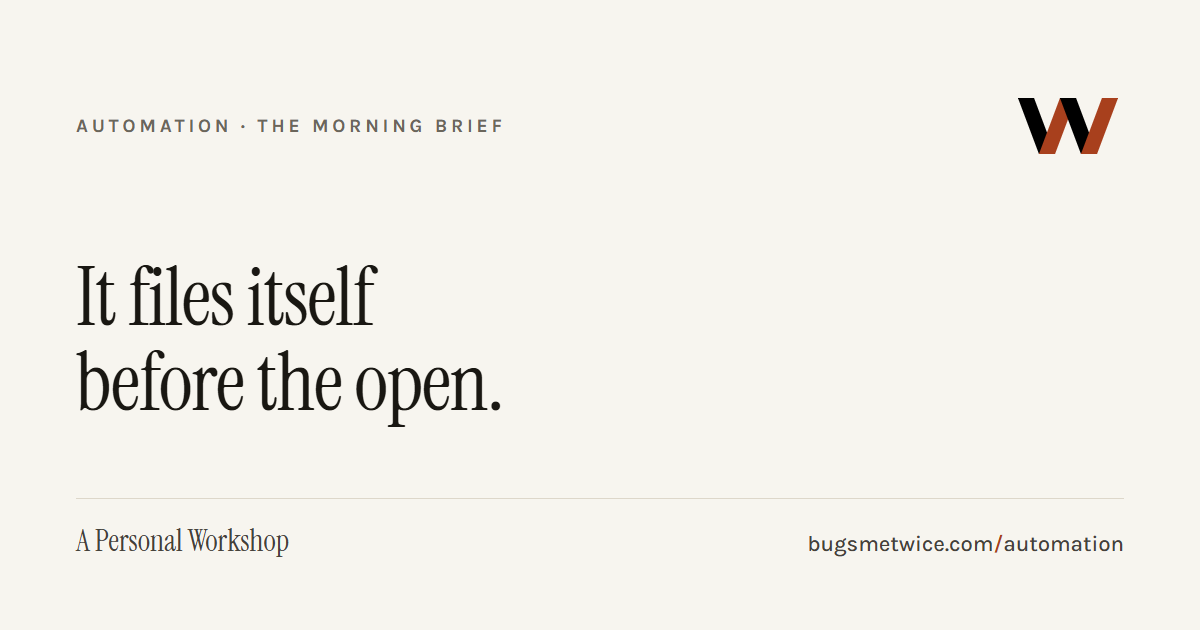
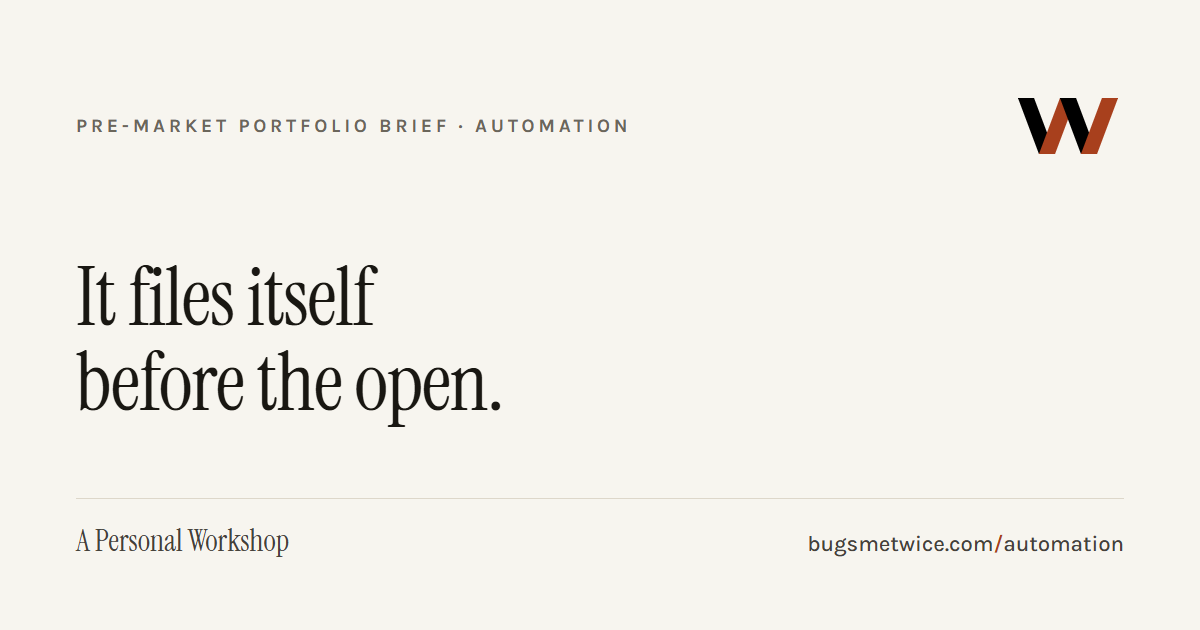
Rename Automation to "Pre-market portfolio brief"; add structured data
- The third project is named for what it is on the card, its window, its
  page title, the preview images and the cross-links. URL unchanged.
- JSON-LD on every page: WebSite + ItemList on the home page,
  SoftwareApplication for Thrennel and TrackSense, WebPage for the brief.
- IndexNow key file, for account-free URL submission to Bing and others.

Changed region(s): [[0.0617, 0.181, 0.5242, 0.2111]]

diff --git a/public/index.html b/public/index.html
@@ -28,6 +28,46 @@
 <link rel="preload" href="/fonts/Karla-normal.woff2" as="font" type="font/woff2" crossorigin>
 
 <link rel="stylesheet" href="/style.css">
+<script type="application/ld+json">
+{
+  "@context": "https://schema.org",
+  "@graph": [
+    {
+      "@type": "WebSite",
+      "@id": "https://bugsmetwice.com/#website",
+      "url": "https://bugsmetwice.com/",
+      "name": "A Personal Workshop",
+      "description": "A workshop, not a portfolio: everything I build, at whatever stage it's honestly at. Thrennel, TrackSense, and the automation that writes my morning brief.",
+      "inLanguage": "en"
+    },
+    {
+      "@type": "ItemList",
+      "name": "The work",
+      "itemListOrder": "https://schema.org/ItemListOrderAscending",
+      "itemListElement": [
+        {
+          "@type": "ListItem",
+          "position": 1,
+          "name": "Thrennel",
+          "url": "https://bugsmetwice.com/thrennel/"
+        },
+        {
+          "@type": "ListItem",
+          "position": 2,
+          "name": "TrackSense",
+          "url": "https://bugsmetwice.com/tracksense/"
+        },
+        {
+          "@type": "ListItem",
+          "position": 3,
+          "name": "Pre-market portfolio brief",
+          "url": "https://bugsmetwice.com/automation/"
+        }
+      ]
+    }
+  ]
+}
+</script>
 </head>
 <body>
 
@@ -91,19 +131,19 @@
           <a class="card__cta" href="/tracksense/">See TrackSense →</a>
         </article>
         <article class="card">
-          <h3>Automation</h3>
+          <h3>Pre-market portfolio brief</h3>
           <p class="card__blurb">A pre-market portfolio brief that writes and files itself every morning, plus the skill library that keeps the rest honest.</p>
-          <a class="card__cta" href="/automation/">See the automation →</a>
+          <a class="card__cta" href="/automation/">See the brief →</a>
         </article>
       </div>
       <p class="band__note noscript__note">The live demos on this page — the knowledge graph, the lap replay and the run log — need JavaScript.</p>
     </noscript>
   </section>
 
-  <dialog class="appwin" id="automation" data-src="/automation/" aria-label="Automation">
+  <dialog class="appwin" id="automation" data-src="/automation/" aria-label="Pre-market portfolio brief">
     <div class="appwin__bar">
-      <span class="appwin__title">Automation</span>
-      <button class="appwin__close" type="button" aria-label="Close Automation">×</button>
+      <span class="appwin__title">Pre-market portfolio brief</span>
+      <button class="appwin__close" type="button" aria-label="Close Pre-market portfolio brief">×</button>
     </div>
     <div class="appwin__body"></div>
   </dialog>

diff --git a/public/automation/index.html b/public/automation/index.html
@@ -3,7 +3,7 @@
 <head>
 <meta charset="utf-8">
 <meta name="viewport" content="width=device-width, initial-scale=1">
-<title>Automation — a morning brief that files itself | A Personal Workshop</title>
+<title>Pre-market portfolio brief — it files itself before the open | A Personal Workshop</title>
 <meta name="description" content="Every weekday before the open, a scheduled agent reads a position list, finds the live numbers, writes six fixed sections and files dated markdown. A second skill audits the library that produces it.">
 <meta name="theme-color" content="#f7f5ef" media="(prefers-color-scheme: light)">
 <meta name="theme-color" content="#16140f" media="(prefers-color-scheme: dark)">
@@ -11,13 +11,13 @@
 <link rel="canonical" href="https://bugsmetwice.com/automation/">
 <meta property="og:type" content="website">
 <meta property="og:site_name" content="A Personal Workshop">
-<meta property="og:title" content="Automation — a morning brief that files itself">
+<meta property="og:title" content="Pre-market portfolio brief — it files itself before the open">
 <meta property="og:description" content="Every weekday before the open, a scheduled agent reads a position list, finds the live numbers, writes six fixed sections and files dated markdown. A second skill audits the library that produces it.">
 <meta property="og:url" content="https://bugsmetwice.com/automation/">
 <meta property="og:image" content="https://bugsmetwice.com/og-automation.png">
 <meta property="og:image:width" content="1200">
 <meta property="og:image:height" content="630">
-<meta property="og:image:alt" content="Automation — It files itself before the open.">
+<meta property="og:image:alt" content="Pre-market portfolio brief — It files itself before the open.">
 <meta name="twitter:card" content="summary_large_image">
 
 <link rel="icon" href="/mark-folded.svg" type="image/svg+xml">
@@ -26,6 +26,19 @@
 <link rel="preload" href="/fonts/InstrumentSerif-normal.woff2" as="font" type="font/woff2" crossorigin>
 <link rel="preload" href="/fonts/Karla-normal.woff2" as="font" type="font/woff2" crossorigin>
 <link rel="stylesheet" href="/style.css">
+<script type="application/ld+json">
+{
+  "@context": "https://schema.org",
+  "@type": "WebPage",
+  "name": "Pre-market portfolio brief",
+  "url": "https://bugsmetwice.com/automation/",
+  "description": "Every weekday before the open, a scheduled agent reads a position list, finds the live numbers, writes six fixed sections and files dated markdown. A second skill audits the library that produces it.",
+  "inLanguage": "en",
+  "isPartOf": {
+    "@id": "https://bugsmetwice.com/#website"
+  }
+}
+</script>
 </head>
 <body>
 

diff --git a/public/thrennel/index.html b/public/thrennel/index.html
@@ -26,6 +26,24 @@
 <link rel="preload" href="/fonts/InstrumentSerif-normal.woff2" as="font" type="font/woff2" crossorigin>
 <link rel="preload" href="/fonts/Karla-normal.woff2" as="font" type="font/woff2" crossorigin>
 <link rel="stylesheet" href="/style.css">
+<script type="application/ld+json">
+{
+  "@context": "https://schema.org",
+  "@type": "SoftwareApplication",
+  "name": "Thrennel",
+  "url": "https://bugsmetwice.com/thrennel/",
+  "sameAs": [
+    "https://thrennel.com/"
+  ],
+  "applicationCategory": "ProductivityApplication",
+  "operatingSystem": "Web",
+  "description": "Type or speak a thought; Thrennel files it under a topic, links it to what you've said before, and draws the constellation underneath. Invite-only beta, fifty seats. Request access.",
+  "inLanguage": "en",
+  "isPartOf": {
+    "@id": "https://bugsmetwice.com/#website"
+  }
+}
+</script>
 </head>
 <body>
 
@@ -79,7 +97,7 @@
     <span class="kicker">More from the workshop</span>
     <div class="more__links">
       <a href="/tracksense/">TrackSense →</a>
-      <a href="/automation/">Automation →</a>
+      <a href="/automation/">Pre-market portfolio brief →</a>
     </div>
   </nav>
 

diff --git a/public/tracksense/index.html b/public/tracksense/index.html
@@ -26,6 +26,21 @@
 <link rel="preload" href="/fonts/InstrumentSerif-normal.woff2" as="font" type="font/woff2" crossorigin>
 <link rel="preload" href="/fonts/Karla-normal.woff2" as="font" type="font/woff2" crossorigin>
 <link rel="stylesheet" href="/style.css">
+<script type="application/ld+json">
+{
+  "@context": "https://schema.org",
+  "@type": "SoftwareApplication",
+  "name": "TrackSense",
+  "url": "https://bugsmetwice.com/tracksense/",
+  "applicationCategory": "UtilitiesApplication",
+  "operatingSystem": "Windows, Web",
+  "description": "iRacing telemetry in, driving coaching out. TrackSense lines your lap up against a reference by distance and tells you which corners to fix first, and exactly what to change.",
+  "inLanguage": "en",
+  "isPartOf": {
+    "@id": "https://bugsmetwice.com/#website"
+  }
+}
+</script>
 </head>
 <body>
 
@@ -71,7 +86,7 @@
     <span class="kicker">More from the workshop</span>
     <div class="more__links">
       <a href="/thrennel/">Thrennel →</a>
-      <a href="/automation/">Automation →</a>
+      <a href="/automation/">Pre-market portfolio brief →</a>
     </div>
   </nav>
 

diff --git a/public/app.js b/public/app.js
@@ -26,10 +26,10 @@ const PROJECTS = [
     href: '/tracksense/'
   },
   {
-    name: 'Automation',
+    name: 'Pre-market portfolio brief',
     status: 'Running privately',
     dot: '#6b665b',
-    blurb: 'A pre-market portfolio brief that writes and files itself every morning, plus the skill library that keeps the rest honest.',
+    blurb: 'Writes and files itself every weekday morning: six fixed sections, every claim sourced, saved as dated markdown. A second skill audits the library that produces it.',
     tags: ['Scheduled', 'Markdown out'],
     shot: { runlog: true, alt: 'A run log of the scheduled morning brief writing and filing itself' },
     cta:  'See how it runs',
